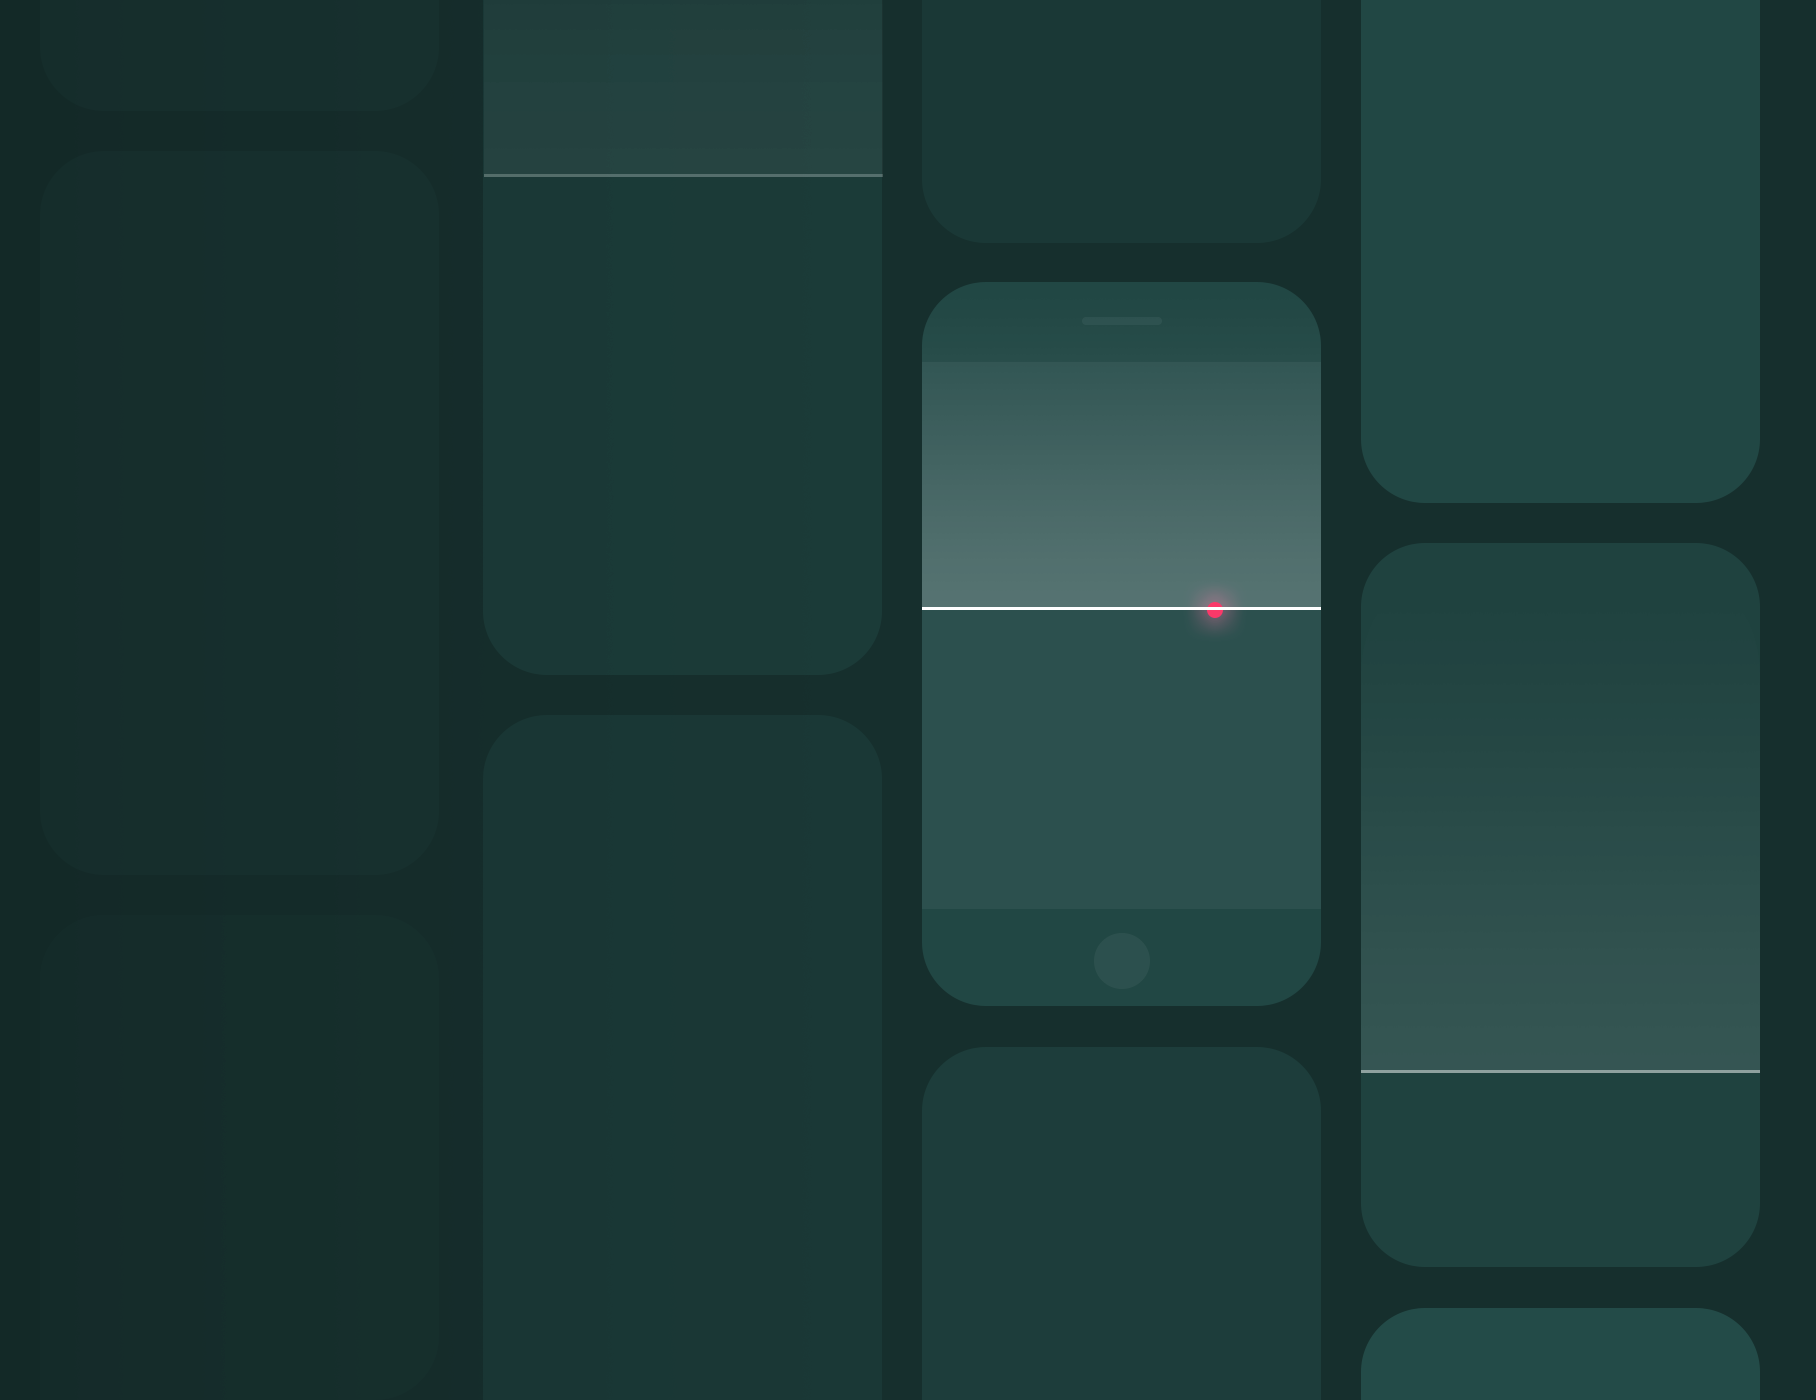
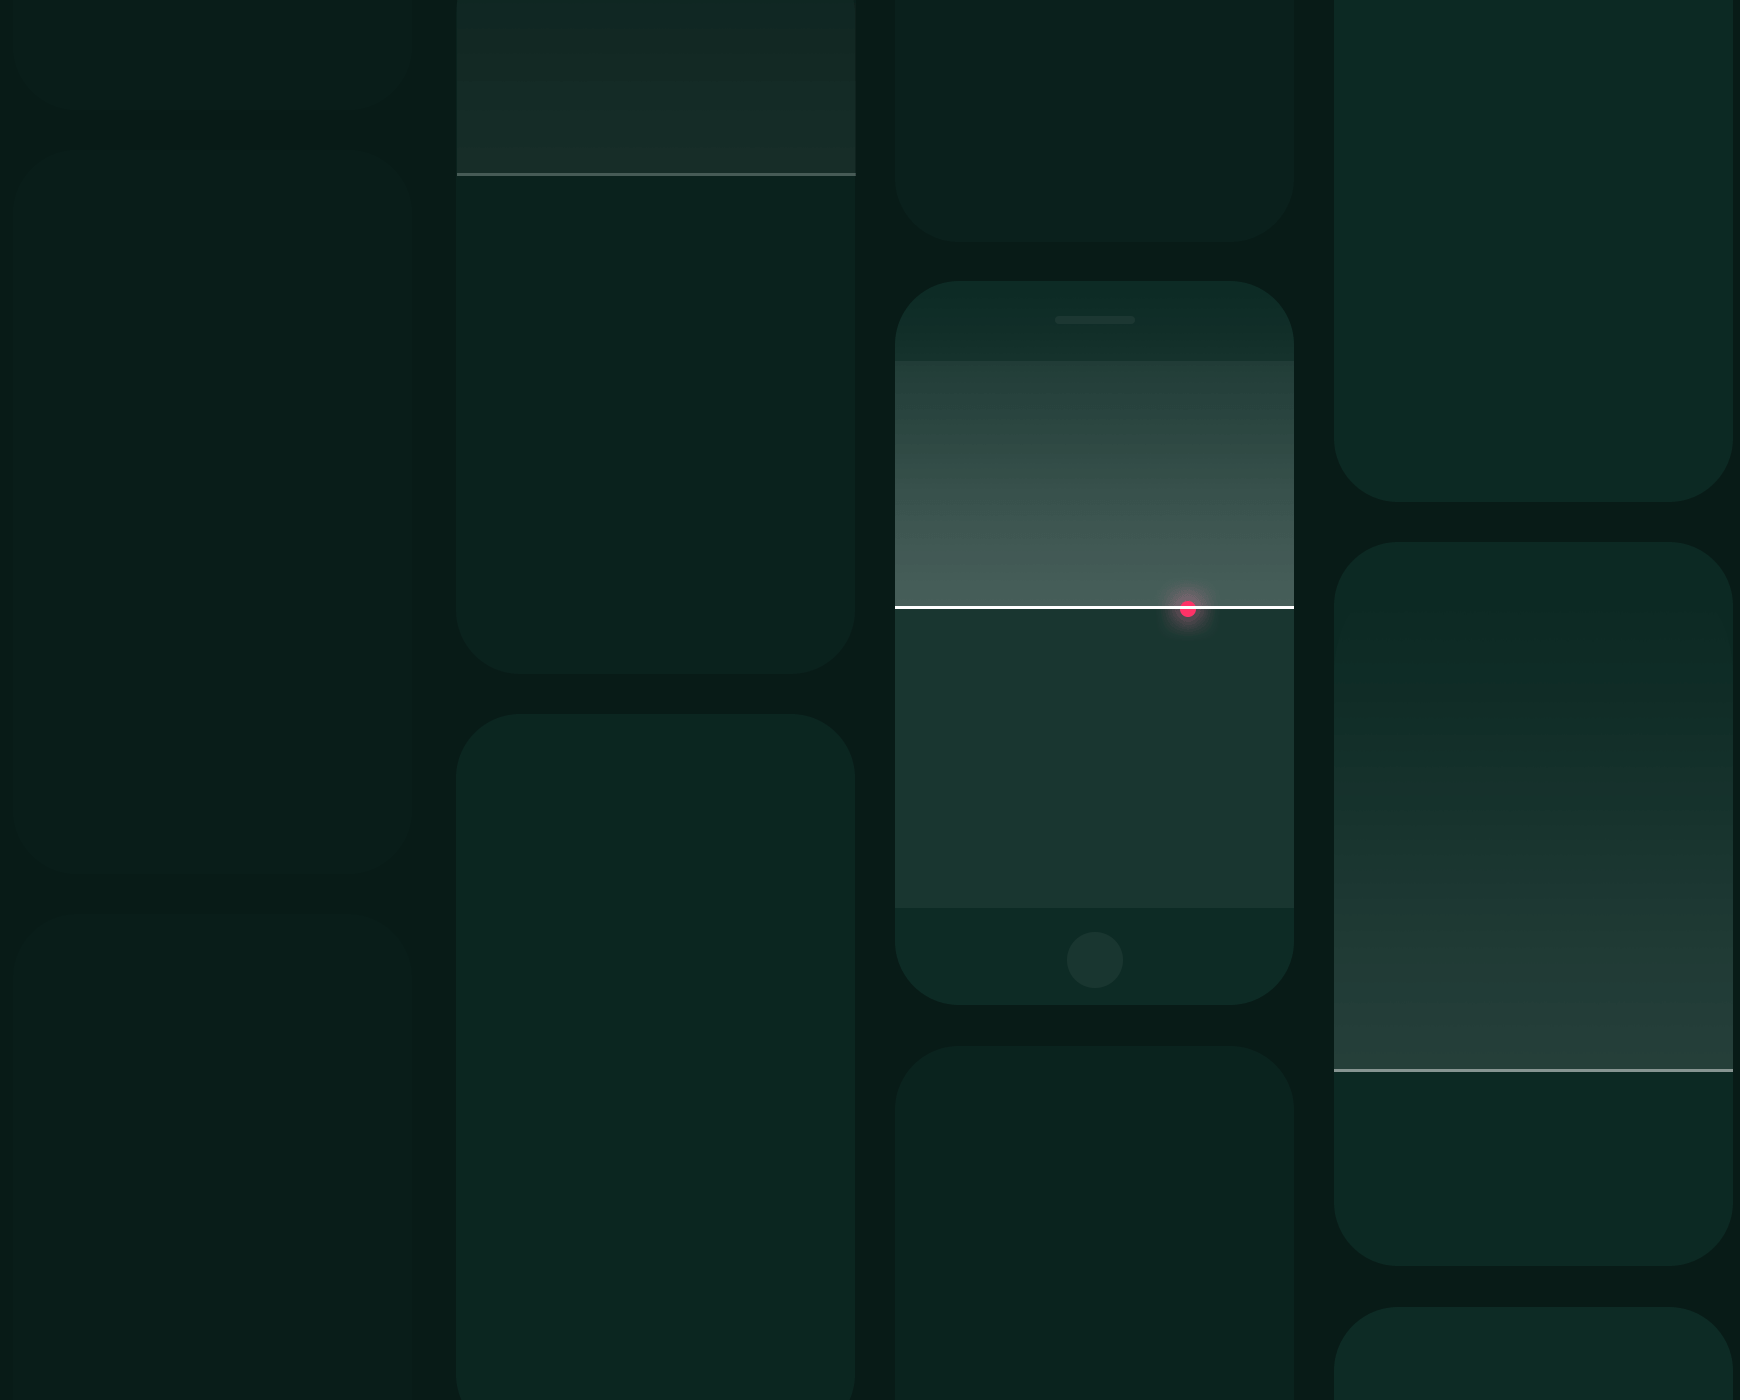
Update pro landing monitor hero image/colors

diff --git a/assets/scss/pages/pro/_index.scss b/assets/scss/pages/pro/_index.scss
@@ -790,9 +790,7 @@
   }
 
   #reporting {
-    background: #142f2d no-repeat center bottom;
-    background-image: linear-gradient(to right, #0e211f 0%, #142f2d 100%);
-    background-size: 100%;
+    background: #081b17;
 
     h4,
     .btn {
@@ -802,7 +800,7 @@
     }
 
     .container::before {
-        background-image: url('/img/pro/product-monitor-img.jpg');
+        background-image: url('/img/pro/product-monitor-img.png');
     }
 
     .content {
